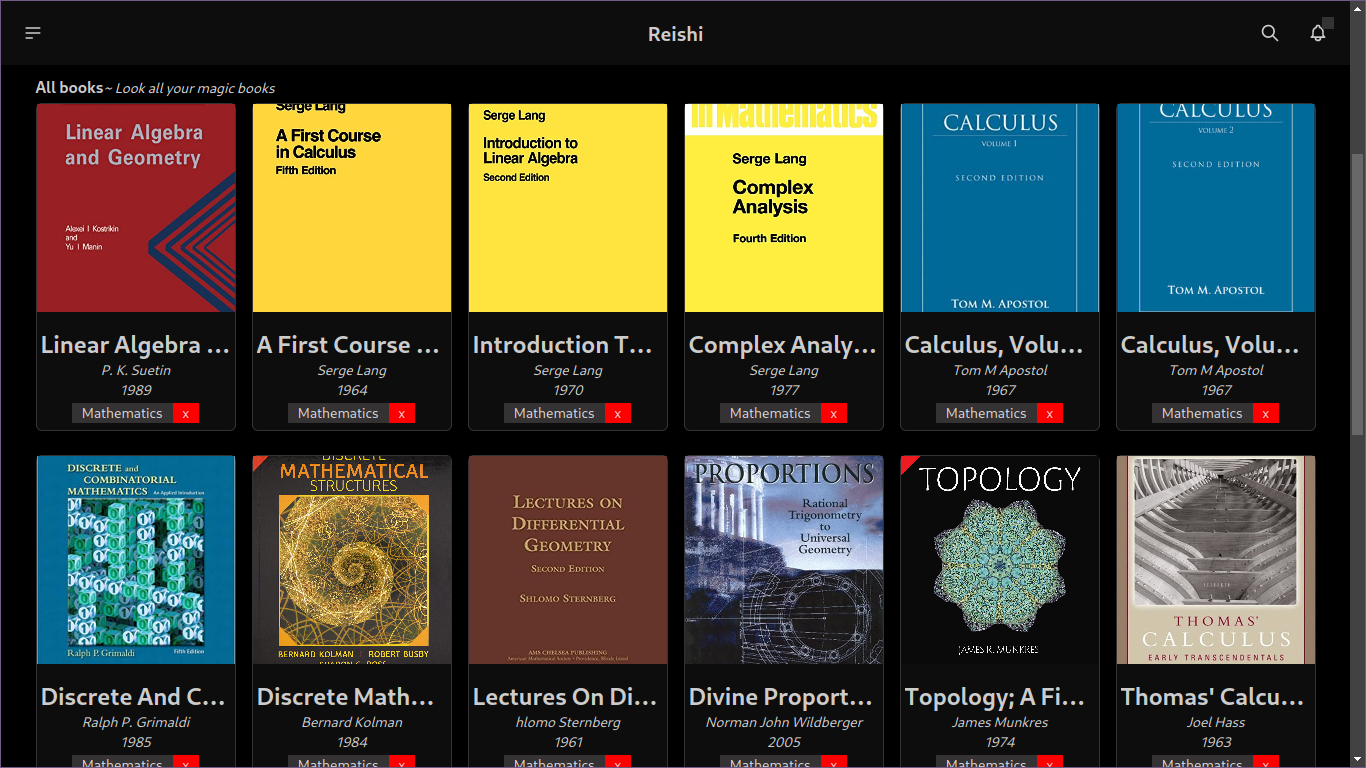
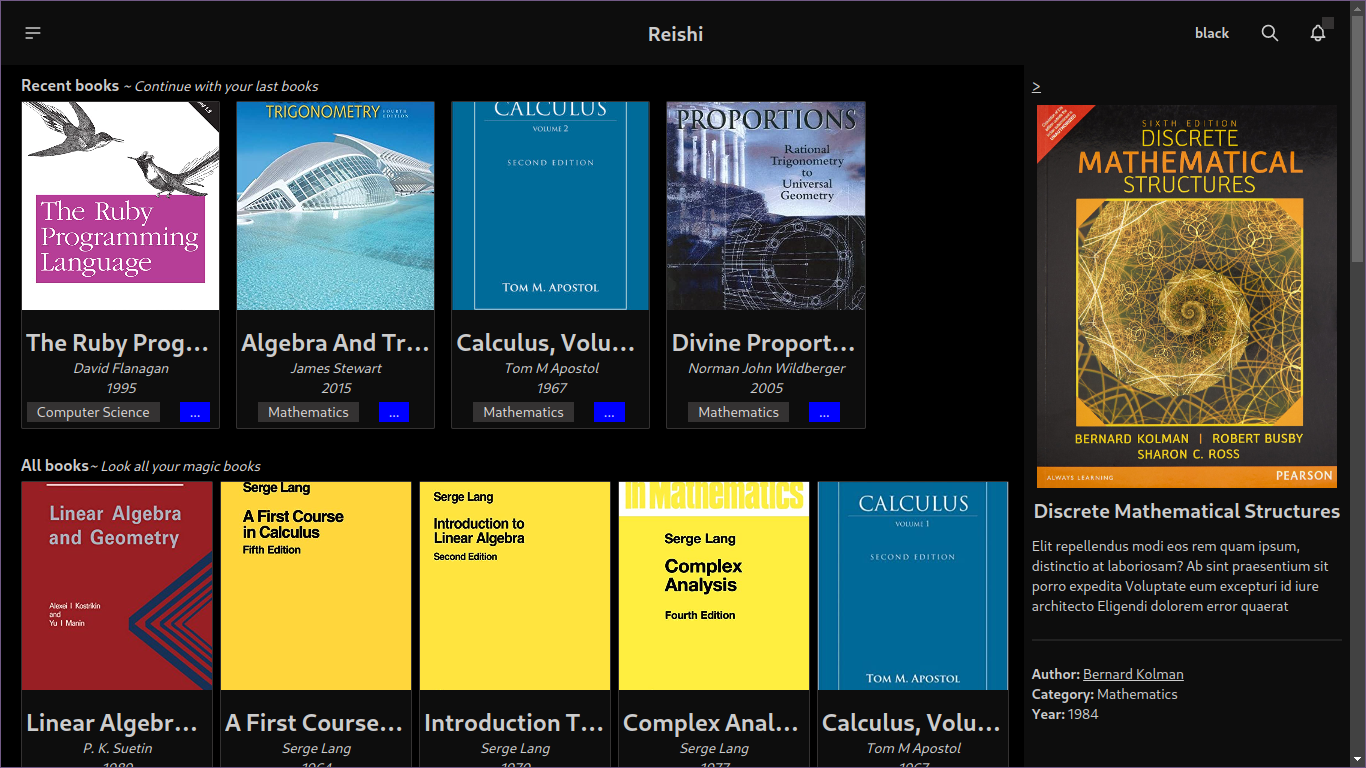
feat(main): book preview sidebar
Sidebar for book previews, books options button added; fix some visual
bugs.

diff --git a/renderer/components/Book.jsx b/renderer/components/Book.jsx
@@ -1,10 +1,27 @@
 import electron from "electron";
 import React from "react";
-import { BookRemove } from "./BookRemove";
+import { useStore } from "../store/store";
+import { BookOptions } from "./BookOptions";
 
 const shell = electron.shell;
 
 export const Book = ({ id, image, title, author, year, category, path }) => {
+  // Select book to show on preview section
+  const handleSelect = (e) => {
+    e.preventDefault();
+    useStore.setState({
+      selected: {
+        id,
+        image,
+        title,
+        author,
+        year,
+        category,
+        path,
+      },
+    });
+  };
+
   // Open the book with an external application
   const handleOpen = (e) => {
     e.preventDefault();
@@ -14,7 +31,8 @@ export const Book = ({ id, image, title, author, year, category, path }) => {
   return (
     <>
       <div
-        className="my-1 bg-base-200 border border-accent rounded-md flex flex-col justify-start gap-4 min-w-[12rem] h-[20.5rem] cursor-pointer tooltip hover:border-accent-focus"
+        className="my-1 bg-base-200 border border-accent rounded-sm flex flex-col justify-start gap-4 min-w-[12rem] h-[20.5rem] cursor-pointer tooltip hover:border-accent-focus"
+        onClick={handleSelect}
         onDoubleClick={handleOpen}
         data-tip={title}
       >
@@ -27,12 +45,11 @@ export const Book = ({ id, image, title, author, year, category, path }) => {
           <p className="text-2xl font-bold capitalize truncate">{title}</p>
           <p className="text-sm italic truncate">{author}</p>
           <p className="text-sm italic">{year}</p>
-          <p className="badge badge-secondary">{category}</p>
-          <label className="badge badge-error" htmlFor={`remove_book_${id}`}>
-            x
-          </label>
+          <div className="flex items-center justify-center content-center gap-4">
+            <p className="badge badge-secondary truncate">{category}</p>
+            <BookOptions id={id} title={title} />
+          </div>
         </div>
-        <BookRemove id={id} title={title} />
       </div>
     </>
   );

diff --git a/renderer/components/BookPreview.jsx b/renderer/components/BookPreview.jsx
@@ -1,0 +1,51 @@
+import React, { useState } from "react";
+import { useStore } from "../store/store";
+
+export const BookPreview = () => {
+  const [isVisible, setVisible] = useState(true);
+  const style = isVisible ? "w-4/12" : "w-[2vw]";
+  const { book } = useStore((state) => ({ book: state.selected }));
+  const { image, title, author, year, category } = book;
+
+  const handleChange = (e) => {
+    e.preventDefault();
+    setVisible(!isVisible);
+  };
+
+  return (
+    <div className={` bg-base-200 relative ${style} transition-all`}>
+      <div className="fixed p-2 bg-base-200">
+        <p className="link" onClick={handleChange}>
+          {isVisible ? ">" : "<"}
+        </p>
+        <div className={`my-2 ${isVisible ? "visible" : "invisible"}`}>
+          <div className="flex flex-row content-center items-center justify-center">
+            <img src={image} alt={title} className="h-[50vh]" />
+          </div>
+          <p className="text-xl text-center font-bold pt-2">{title}</p>
+          <p className="text-sm pt-3 h-[12vh] overflow-hidden">
+            Elit repellendus modi eos rem quam ipsum, distinctio at laboriosam?
+            Ab sint praesentium sit porro expedita Voluptate eum excepturi id
+            iure architecto Eligendi dolorem error quaerat obcaecati esse
+            Sapiente quos
+          </p>
+          <div className="divider"></div>
+          <div className="text-sm">
+            <p>
+              <span className="font-bold">Author: </span>
+              <span className="link">{author}</span>
+            </p>
+            <p>
+              <span className="font-bold">Category: </span>
+              {category}
+            </p>
+            <p>
+              <span className="font-bold">Year: </span>
+              {year}
+            </p>
+          </div>
+        </div>
+      </div>
+    </div>
+  );
+};

diff --git a/renderer/pages/home.jsx b/renderer/pages/home.jsx
@@ -5,6 +5,7 @@ import { BooksView } from "../components/BooksView";
 import { BookList } from "../components/BookList";
 import { useStore } from "../store/store";
 import { shallow } from "zustand/shallow";
+import { BookPreview } from "../components/BookPreview";
 
 const ipcRenderer = electron.ipcRenderer || false;
 
@@ -29,11 +30,16 @@ function Home() {
       <Head>
         <title>Reishi</title>
       </Head>
-      <div className="my-2">
-        <BooksView books={books} />
-      </div>
-      <div className="mb-2 my-5">
-        <BookList books={books} />
+      <div className="flex flex-row justify-between gap-1">
+        <div className="container mx-5">
+          <div className="my-2">
+            <BooksView books={books} />
+          </div>
+          <div className="mb-2 my-5">
+            <BookList books={books} />
+          </div>
+        </div>
+        <BookPreview />
       </div>
     </>
   );

diff --git a/renderer/components/Theme.jsx b/renderer/components/Theme.jsx
@@ -1,0 +1,34 @@
+import React from "react";
+import { useStore } from "../store/store";
+
+export const Theme = () => {
+  const { current } = useStore((state) => ({ current: state.theme }));
+  return (
+    <div className="dropdown dropdown-end">
+      <label tabIndex={0} className="btn btn-ghost rounded-btn">
+        {current}
+      </label>
+      <ul
+        tabIndex={0}
+        className="menu dropdown-content p-2 shadow bg-base-100 rounded-box w-52 mt-4"
+      >
+        {[
+          "black",
+          "dark",
+          "retro",
+          "cyberpunk",
+          "luxury",
+          "dracula",
+          "forest",
+          "coffe",
+          "winter",
+          "synthwave",
+        ].map((theme, i) => (
+          <li key={i} onClick={() => useStore.setState({ theme })}>
+            <a>{theme}</a>
+          </li>
+        ))}
+      </ul>
+    </div>
+  );
+};

diff --git a/renderer/components/BookOptions.jsx b/renderer/components/BookOptions.jsx
@@ -1,0 +1,27 @@
+import React from "react";
+import { BookRemove } from "./BookRemove";
+
+export const BookOptions = ({ id, title }) => {
+  return (
+    <div className="dropdown dropdown-top dropdown-end">
+      <label
+        tabIndex={0}
+        className="badge badge-info m-1 cursor-pointer hover:bg-info-content hover:text-primary-focus"
+      >
+        ...
+      </label>
+      <ul
+        tabIndex={0}
+        className="dropdown-content menu p-2 shadow bg-base-100 rounded-box w-52"
+      >
+        <li>
+          <label htmlFor={`remove_book_${id}`}>Delete Book</label>
+        </li>
+        <li>
+          <a>Edit Metadata</a>
+        </li>
+      </ul>
+      <BookRemove id={id} title={title} />
+    </div>
+  );
+};

diff --git a/renderer/components/layout.jsx b/renderer/components/layout.jsx
@@ -1,13 +1,15 @@
 import React from "react";
 import { Header } from "./Header";
 import { Footer } from "./Footer";
+import { useStore } from "../store/store";
 
 const Layout = ({ children }) => {
+  const { theme } = useStore((state) => ({ theme: state.theme }));
   return (
-    <div data-theme="black">
+    <div data-theme={theme}>
       <Header />
-      <div className="min-h-screen">
-        <div className="container mx-auto py-16">{children}</div>
+      <div className="min-h-[90.8vh]">
+        <div className="pt-16">{children}</div>
       </div>
       <Footer />
     </div>

diff --git a/renderer/components/BookList.jsx b/renderer/components/BookList.jsx
@@ -11,7 +11,7 @@ export const BookList = ({ books }) => {
           ~ Look all your magic books
         </span>
       </div>
-      <div className="grid grid-cols-1 sm:grid-cols-3 md:grid-cols-4 lg:grid-cols-5 xl:grid-cols-6 grid-flow-row gap-4">
+      <div className="grid grid-cols-1 sm:grid-cols-2 md:grid-cols-3 lg:grid-cols-4 xl:grid-cols-5 grid-flow-row gap-4">
         {books.map((book, i) => {
           return <Book {...book} key={i} />;
         })}

diff --git a/renderer/components/Header.jsx b/renderer/components/Header.jsx
@@ -1,5 +1,6 @@
 import React from "react";
 import Link from "next/link";
+import { Theme } from "./Theme";
 
 export const Header = () => {
   return (
@@ -47,6 +48,7 @@ export const Header = () => {
         </Link>
       </div>
       <div className="navbar-end">
+        <Theme />
         <button className="btn btn-ghost btn-circle">
           <svg
             xmlns="http://www.w3.org/2000/svg"

diff --git a/renderer/components/BooksView.jsx b/renderer/components/BooksView.jsx
@@ -13,7 +13,7 @@ export const BooksView = ({ books }) => {
       <div className="flex flex-row justify-start gap-4 overflow-auto">
         {[...books]
           .sort(() => 0.5 - Math.random())
-          .slice(0, 5)
+          .slice(0, 4)
           .map((book, i) => {
             return (
               <div className="w-[14.6vw]" key={i}>

diff --git a/renderer/components/Stats.jsx b/renderer/components/Stats.jsx
@@ -8,7 +8,7 @@ export const Stats = () => {
   return (
     <>
       <div className="flex justify-center content-center items-center align-middle">
-        <div className="stats">
+        <div className="stats shadow my-5">
           <div className="stat">
             <div className="stat-figure text-primary">
               <svg

diff --git a/renderer/store/store.js b/renderer/store/store.js
@@ -1,6 +1,9 @@
 import { create } from "zustand";
 
-// FIX: Change this name, generate confucion with zustand method
+// FIX: Change this name, generate confucion with a zustand method
 export const useStore = create((set) => ({
   books: [{}],
+  theme: "black",
+  // current selected book
+  selected: {},
 }));
